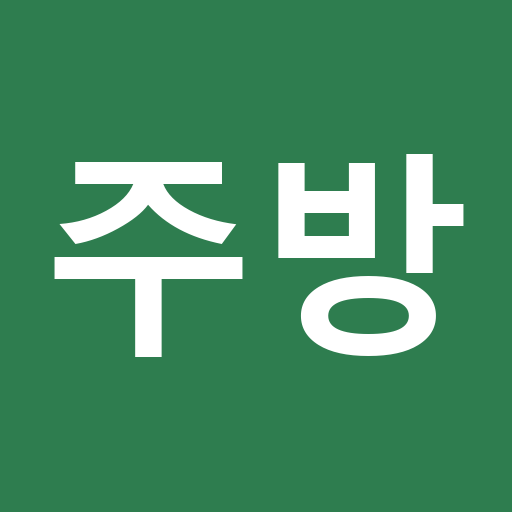
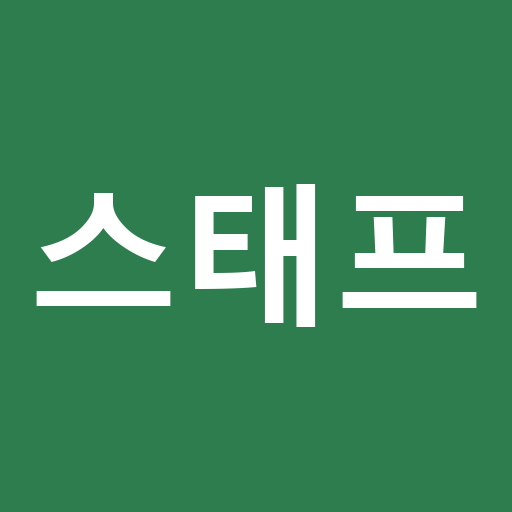
chore: 서비스 이름 열린 카페, '주방' → '스태프', iOS 홈 화면 아이콘
apple-touch-icon 링크 추가 (iOS 는 매니페스트 icons 대신 이걸 쓴다). 아이콘 다시 생성.

Changed region(s): [[0.0625, 0.2812, 0.9375, 0.7188]]

diff --git a/client/index.html b/client/index.html
@@ -4,11 +4,14 @@
     <meta charset="UTF-8" />
     <meta name="viewport" content="width=device-width, initial-scale=1.0, maximum-scale=1.0, user-scalable=no" />
     <meta name="theme-color" content="#f7f3ee" />
-    <title>샤인 카페</title>
+    <title>열린 카페</title>
     <link rel="icon" href="/icon-kiosk-192.png" />
     <!-- 홈 화면에 추가하면 주소창 없는 전체화면 앱으로 뜬다. 화면별로 다른 매니페스트. -->
+    <!-- 안드로이드 크롬은 매니페스트 icons 를, iOS 사파리는 apple-touch-icon 을 홈 화면 아이콘으로 쓴다. -->
     <script>
-      document.write('<link rel="manifest" href="' + (location.pathname.startsWith('/staff') ? '/staff.manifest.json' : '/kiosk.manifest.json') + '">')
+      var screen = location.pathname.startsWith('/staff') ? 'staff' : 'kiosk'
+      document.write('<link rel="manifest" href="/' + screen + '.manifest.json">')
+      document.write('<link rel="apple-touch-icon" href="/icon-' + screen + '-192.png">')
     </script>
   </head>
   <body>

diff --git a/client/src/shared/sms.ts b/client/src/shared/sms.ts
@@ -17,7 +17,7 @@ export function couponBalanceMessage(order: Order, coupon: Coupon): string {
   if (order.freeAmount) used.push(`무료 1잔 ${order.freeItemName ?? ''}`.trim())
   if (order.couponAmount) used.push(`쿠폰 ${won(order.couponAmount)}`)
   const lines = [
-    `[샤인카페] ${coupon.name}님 ${Number(m)}/${Number(d)} 주문`,
+    `[열린카페] ${coupon.name}님 ${Number(m)}/${Number(d)} 주문`,
     used.length ? `사용: ${used.join(' + ')}` : '',
     `남은 잔액 ${won(coupon.balance)} · 무료 1잔 ${coupon.freeDrinks}잔`,
   ]

diff --git a/client/e2e/staff.spec.ts b/client/e2e/staff.spec.ts
@@ -246,7 +246,7 @@ test.describe('쿠폰 관리', () => {
     expect(link).toBeTruthy()
     expect(link!.startsWith('sms:01055556666')).toBe(true)
     const body = decodeURIComponent(link!.split('body=')[1])
-    expect(body).toContain(`[샤인카페] ${withPhone}님`)
+    expect(body).toContain(`[열린카페] ${withPhone}님`)
     expect(body).toContain('무료 1잔 아이스크림 컵')
     expect(body).toContain('쿠폰 1,000원')
     expect(body).toContain('남은 잔액 19,000원 · 무료 1잔 0잔')

diff --git a/client/src/staff/StaffApp.tsx b/client/src/staff/StaffApp.tsx
@@ -65,7 +65,7 @@ export function StaffApp() {
       {!online && <div className="offline">서버와 연결이 끊겼습니다. 와이파이를 확인해 주세요.</div>}
       <header className="staff-head">
         <div className="row between">
-          <b style={{ fontSize: 20 }}>샤인 카페 · 주방</b>
+          <b style={{ fontSize: 20 }}>열린 카페 · 스태프</b>
           <button className="btn ghost" onClick={logout}>나가기</button>
         </div>
         {summary && (

diff --git a/client/src/staff/LoginPage.tsx b/client/src/staff/LoginPage.tsx
@@ -22,7 +22,7 @@ export function LoginPage({ onLogin }: { onLogin: () => void }) {
   return (
     <div className="kiosk" style={{ maxWidth: 480, justifyContent: 'center' }}>
       <div className="hero" style={{ padding: 0 }}>
-        <div className="title">주방 화면</div>
+        <div className="title">스태프 화면</div>
         <div className="sub">PIN 4자리를 눌러 주세요</div>
       </div>
       <div className="pin-dots">

diff --git a/deploy/README.md b/deploy/README.md
@@ -39,7 +39,7 @@ mkdir -p ~/kiosk/config
 cat > ~/kiosk/config/application.yml <<'YML'
 kiosk:
   staff-pin: "0000"
-  bank-account: "국민 123-45-678901 (샤인교회)"
+  bank-account: "국민 123-45-678901 (열린교회)"
 YML
 ```
 
